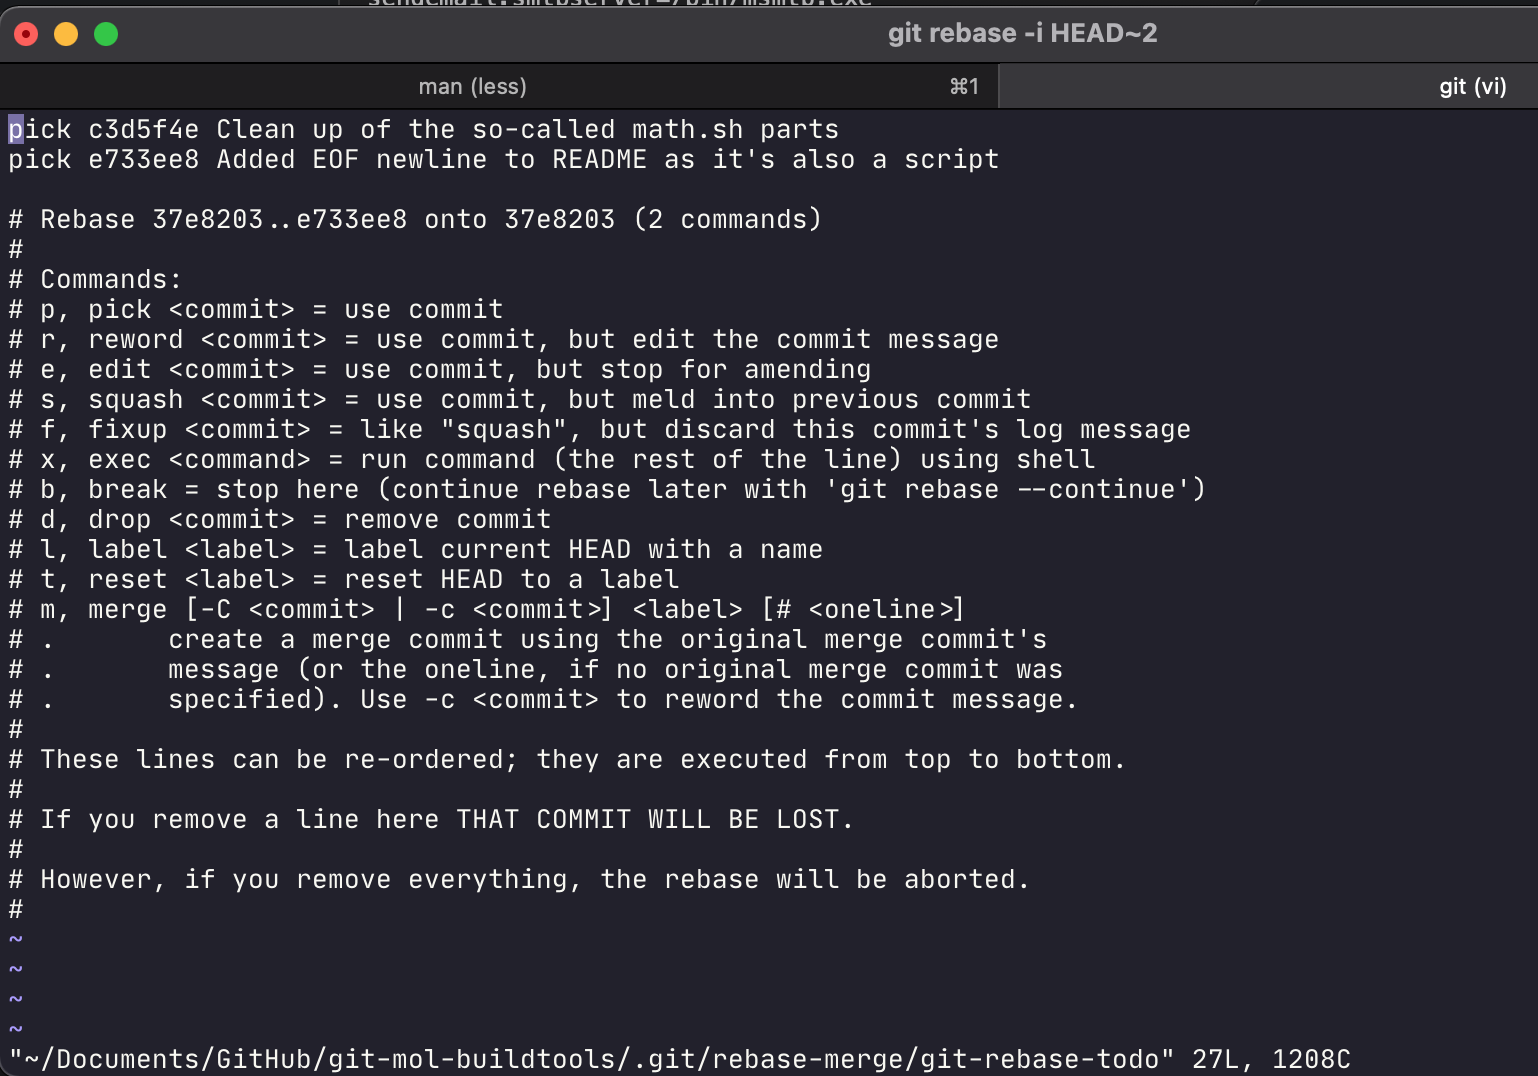
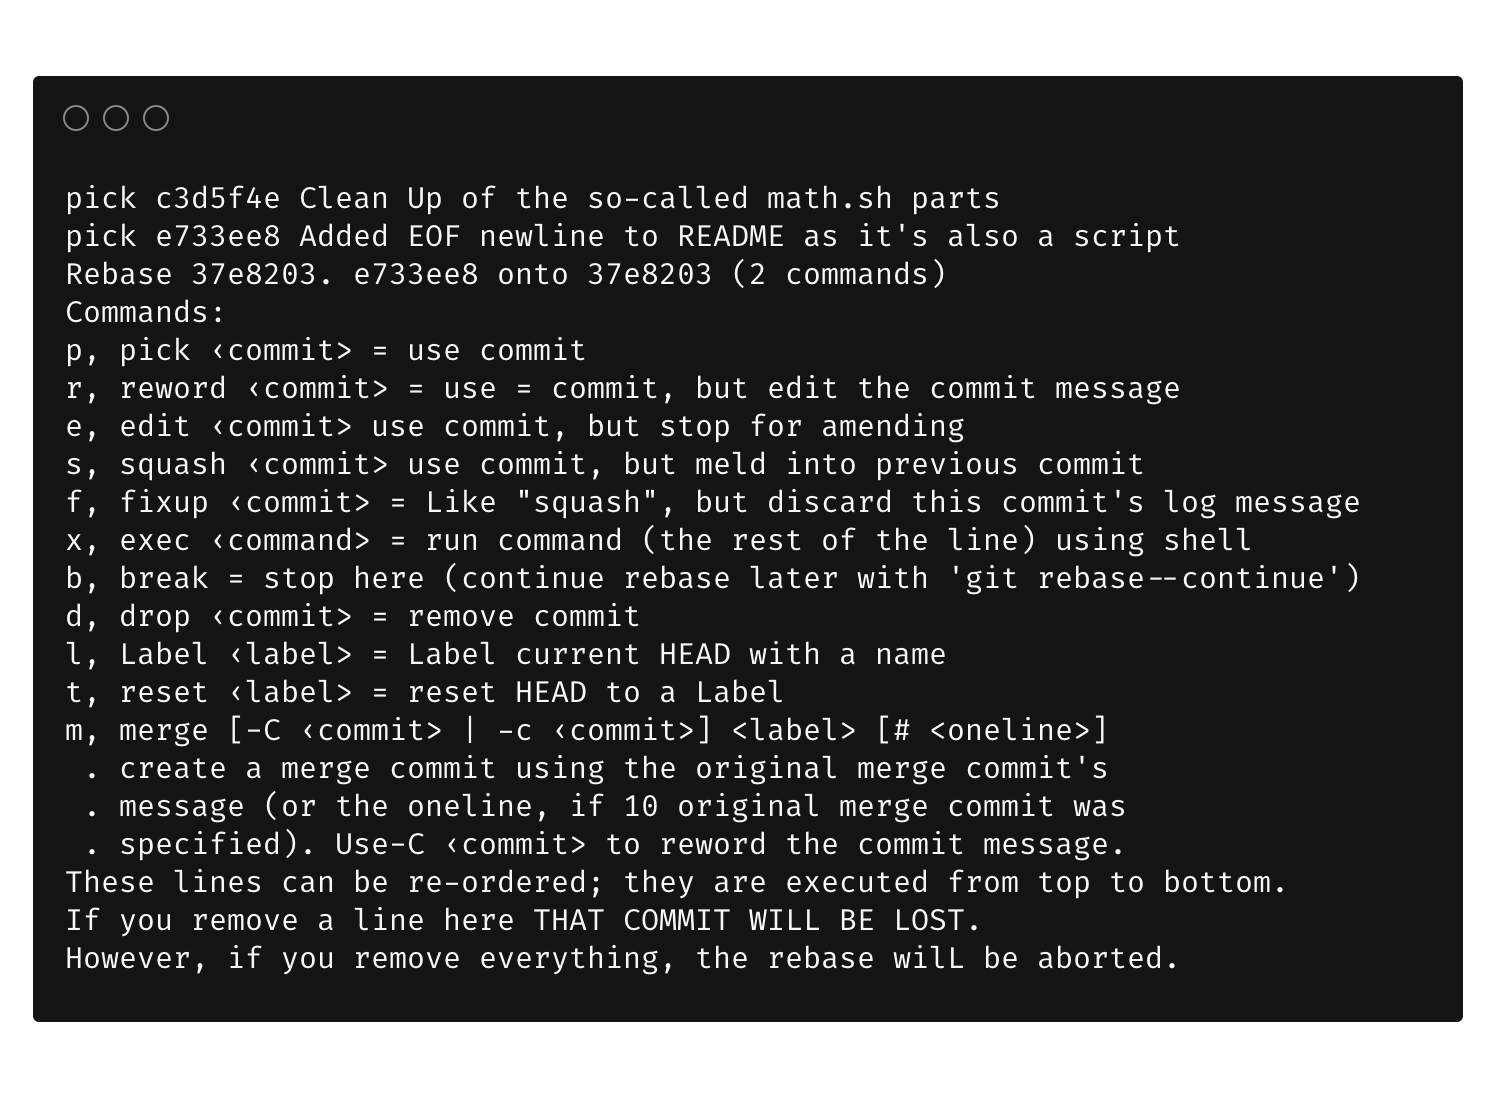
still at it {img}2{figure}

diff --git a/content/projects/git-mol/day2.md b/content/projects/git-mol/day2.md
@@ -22,7 +22,7 @@ Here’s where I diverged from the lesson plan and treated my _README_ file like
 
 Making small edits and several commits, I was able to see the circumstances like:
  
-!["diagram of a git flow"](/git-mol/day2-02.png "The dev cycle: Working area, Staging area , Commit history")
+![Diagram of a git flow](/git-mol/day2-02.png "The dev cycle: Working area, Staging area , Commit history")
 
 From right to left, I have:
 
@@ -30,7 +30,7 @@ From right to left, I have:
 2. I have made edits to same file and added it (then I enhanced the file-as-script and added, but not committed, the change)
 3. I have made more edits to the file (finally, I removed the single variable echo as I have done more work on the file-as-script)
 
-!["diagram of a git status"](/git-mol/day2-03.png "`git diff` or `git diff —staged` can show the facet of the dev cycle")
+![Diagram of a git status](/git-mol/day2-03.png "`git diff` or `git diff —staged` can show the facet of the dev cycle")
 
 ## Commands of Note
 ```
@@ -44,7 +44,7 @@ git log --shortstat --oneline
 
 ##  Expressing my Skillselves
 
-![terminal window with git dialog](/media/git-mol-day2-01.png ".../.git/rebase-merge/git-rebase-todo")
+{{< figure src="/media/git-mol-day2-01.png" caption="…/.git/rebase-merge/git-rebase-todo" numbered="false" >}}
 _After doing multiple commits, it would seem that doing something unconventional like adding the execute bit to a text file and adding script code should support and inform the commit history._
 
 ☝Using `git rebase -i HEAD~N`  (where N is positional number), I was able to tag the errant line with the `reword` command and change the message in an interactive session. Nice!
